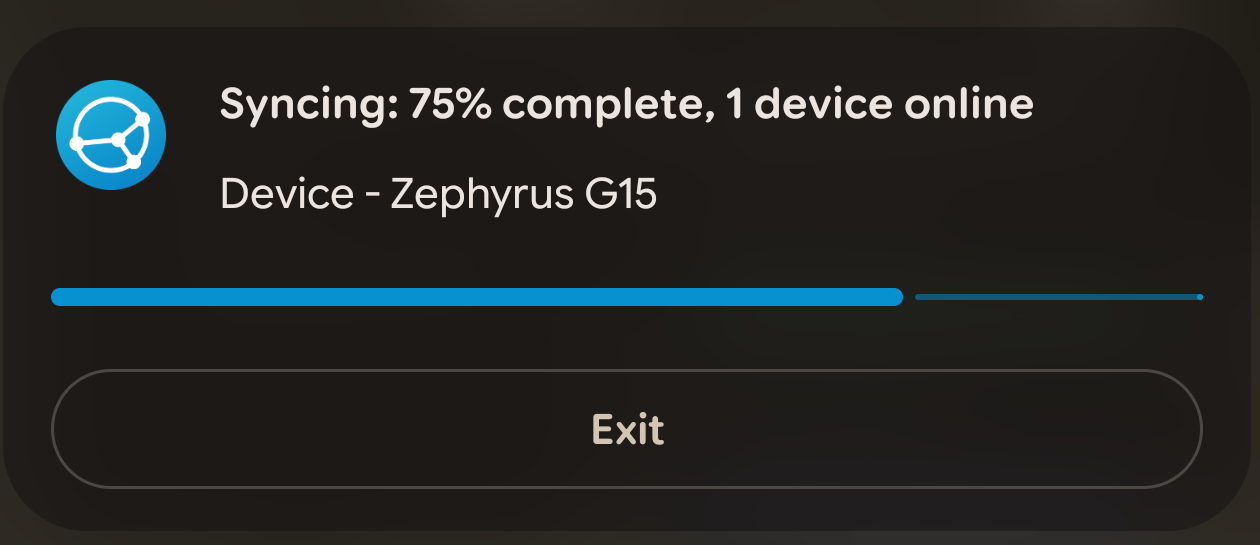
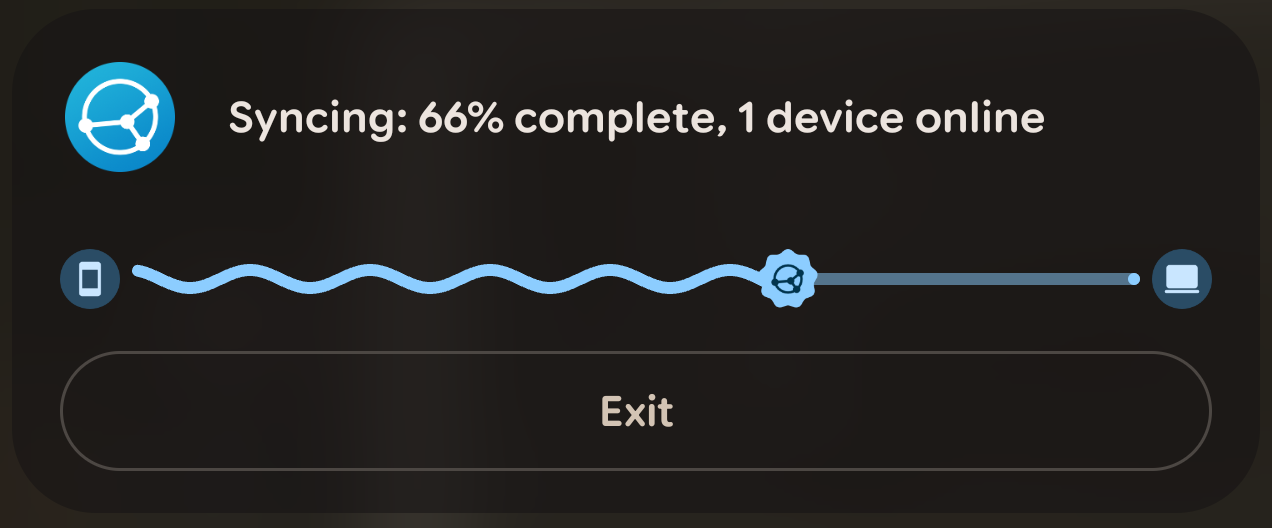
docs: update the screenshots for the Material 3 Expressive styling

diff --git a/README.md b/README.md
@@ -21,15 +21,17 @@ the missing part, without adding a notification of its own.
 
 ## 📸 Screenshots
 
-<p align="center"><img src="branding/notification.png" width="620" alt="Syncthing's own notification, rewritten with a progress bar and the folder being transferred"></p>
+<p align="center"><img src="branding/notification.png" width="620" alt="Syncthing's own notification during an upload, with a wavy progress bar running from a phone icon to a computer icon, led by a cookie-shaped tracker"></p>
 
 Syncthing's own persistent notification during a transfer: the host's title and Exit action
-are untouched, with the progress bar and the name of the folder being transferred added.
+are untouched. The progress bar runs from this phone to the remote computer, its filled part
+drawn as a Material 3 Expressive wave behind a cookie-shaped tracker carrying the Syncthing
+glyph.
 
-<p align="center"><img src="branding/status-bar-chip.png" width="380" alt="Status bar chip showing the Syncthing icon with a download badge and 73 percent"></p>
+<p align="center"><img src="branding/status-bar-chip.png" width="320" alt="Blue status bar chip showing the Syncthing icon with an upload badge and 81 percent"></p>
 
-The same notification as a status bar chip. The arrow badge shows the direction of the
-transfer — here, data arriving on this device.
+The same notification as a status bar chip, filled with Syncthing's blue. The arrow badge
+shows the direction of the transfer — here, data leaving this device.
 
 ## ✨ Features
 
@@ -258,13 +260,12 @@ flags=ONGOING_EVENT|ONLY_ALERT_ONCE|NO_CLEAR|FOREGROUND_SERVICE|PROMOTED_ONGOING
 ```
 
 and reverting to `01_syncthing_persistent` without the promotion flag once the sync
-completed. The screenshots above are from the `1.0.0` run and predate the Material 3
-Expressive styling.
+completed.
 
 The `1.1.0` SystemUI hooks were validated on the same device, build `CP2A.260805.005`: the
 filled part of the bar was drawn as a moving wave, the tracker was captured at intermediate
 positions between whole-percent updates, and the status bar chip was filled with Syncthing's
-blue.
+blue. The screenshots above are from that run.
 
 The included GitHub Actions workflow builds on every push, pull request, and manual run. A
 `v*` tag additionally builds, signs, and attaches the release APK to the GitHub Release when
